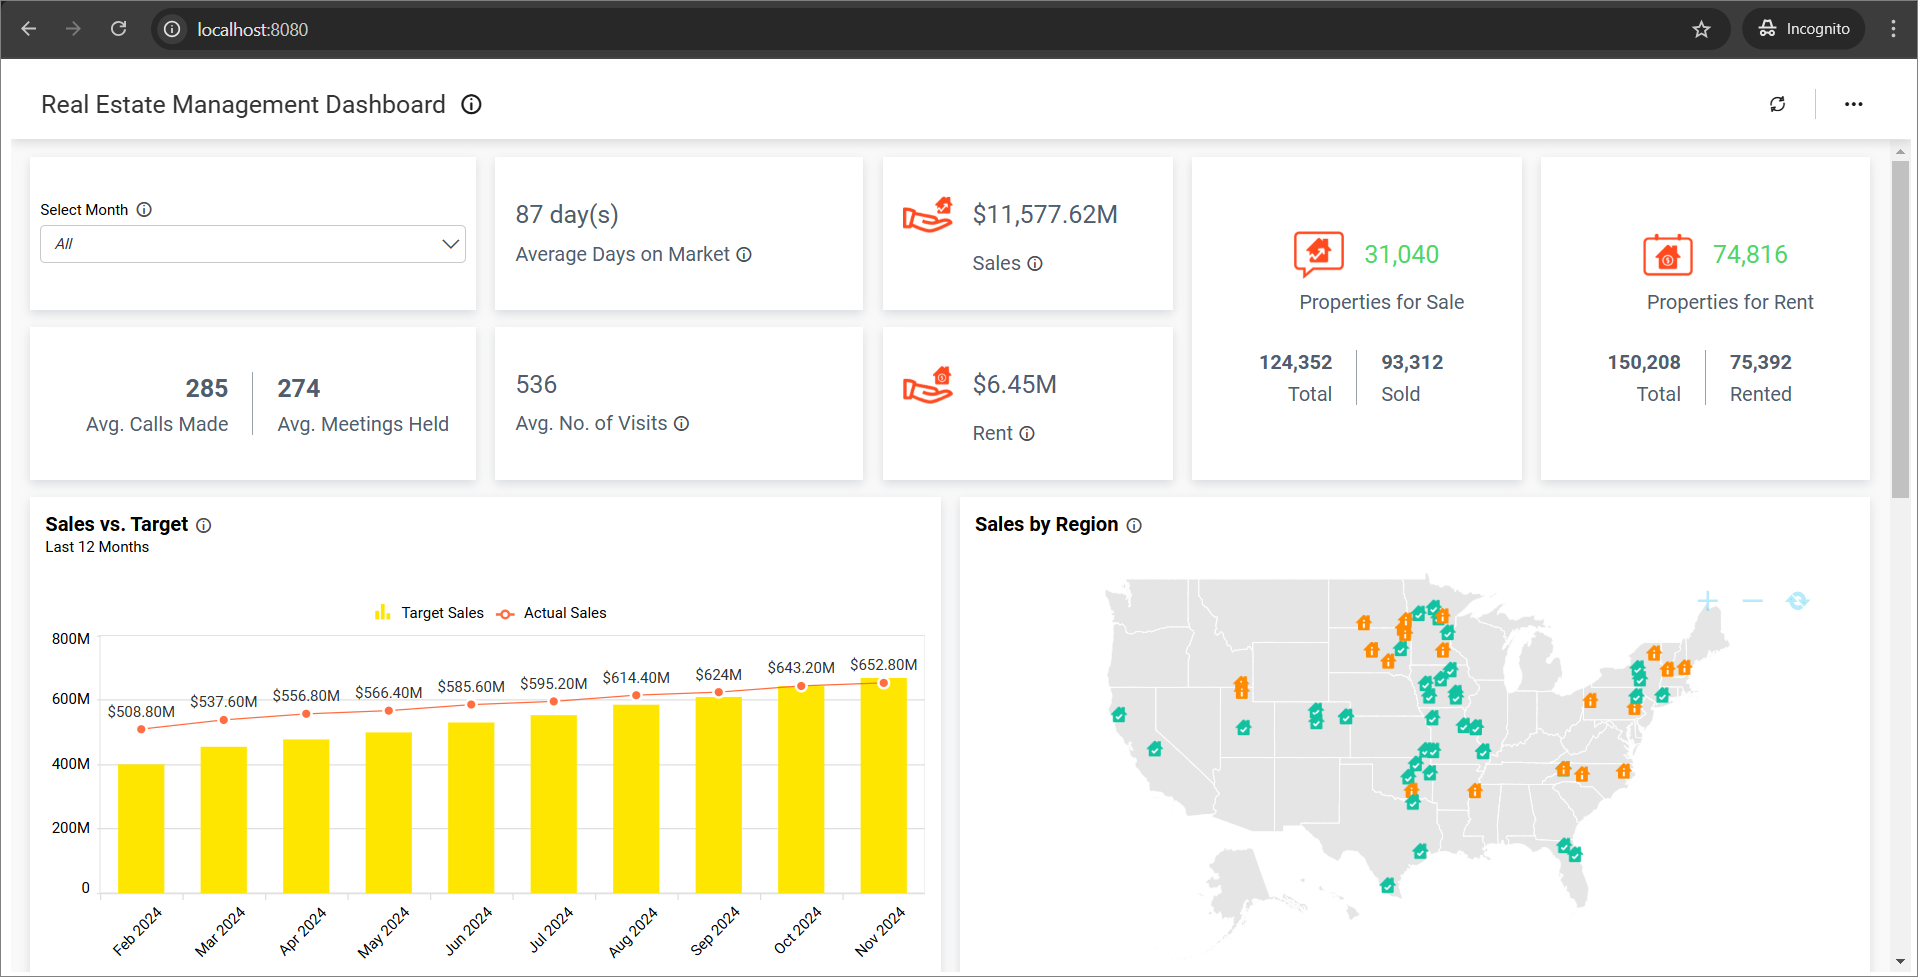
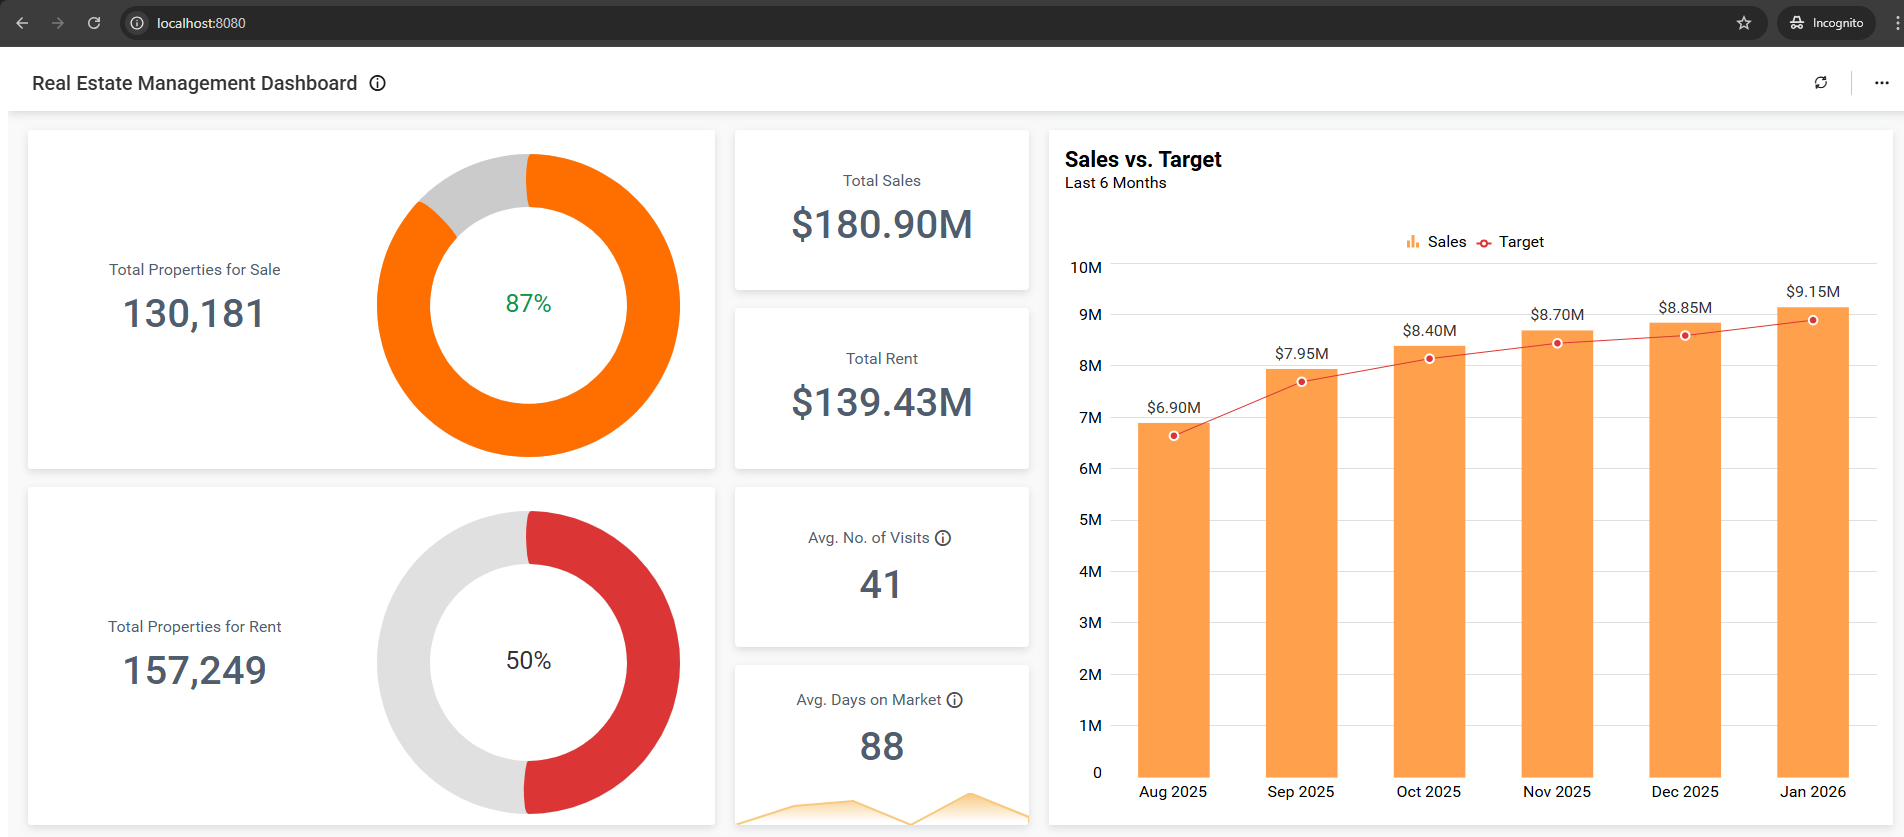
updated sample with embedtoken

diff --git a/index.html b/index.html
@@ -1,45 +1,53 @@
 <html>
-    <head>  
-        <script type="text/javascript" src="https://cdn.boldbi.com/embedded-sdk/latest/boldbi-embed.js"></script>
-    </head>
-    <body onload="embedSample();">
-        <div id="dashboard"></div>
-        <script>
 
-            //For Bold BI Enterprise edition, it should be like `site/site1`. For Bold BI Cloud, it should be empty string.
-            var siteIdentifier = configjson.SiteIdentifier;
-            
-            //Your Bold BI application environment. (If Cloud, you should use `cloud`, if Enterprise, you should use `enterprise`)
-            var environment = configjson.Environment;
+<head>
+    <script type="text/javascript" src="https://cdn.boldbi.com/embedded-sdk/latest/boldbi-embed.js"></script>
+</head>
 
-            //Item id of the dashboard in the Bold BI server`
-            var dashboardId = configjson.DashboardId;
+<body onload="embedSample();">
+    <div id="dashboard"></div>
+    <script>
 
-            var embedType = configjson.EmbedType;
+        //For Bold BI Enterprise edition, it should be like `site/site1`. For Bold BI Cloud, it should be empty string.
+        var siteIdentifier = configjson.SiteIdentifier;
 
-            //Bold BI Server URL (ex: http://localhost:5000/bi, http://demo.boldbi.com/bi)
-            var rootUrl = configjson.ServerUrl;
+        //Item id of the dashboard in the Bold BI server
+        var dashboardId = configjson.DashboardId;
 
-            //Url of the GetDetails(API) in this application
-            var authorizationUrl="http://localhost:8080/embeddetail/get";
+        //Bold BI Root URL (ex: http://localhost:5000/bi, http://demo.boldbi.com/bi)
+        var rootUrl = configjson.ServerUrl;
 
-            function embedSample() {
+        //Backend Url of the token generation in this application
+        var tokenGenerationUrl = "/TokenGeneration";
+
+        function embedSample() {
+            getEmbedToken().then(accessToken => {
                 var boldbiEmbedInstance = BoldBI.create({
                     serverUrl: rootUrl + "/" + siteIdentifier,
-                    dashboardId: dashboardId,                
+                    dashboardId: dashboardId,
                     embedContainerId: "dashboard",// This should be the container id where you want to embed the dashboard
-                    embedType: embedType,
-                    environment: environment,
-                    mode: BoldBI.Mode.View,
-                    height: "100%",
-                    width: "100%",
-                    authorizationServer: {
-                        url: authorizationUrl
-                    },
-                    expirationTime: "100000",
+                    embedToken: accessToken,
                 });
                 boldbiEmbedInstance.loadDashboard();
-            }
-        </script>
-    </body>
-    </html>
+            }).catch(error => {
+                console.error("Failed to get embed token:", error);
+            });
+        }
+
+        function getEmbedToken() {
+            return fetch(tokenGenerationUrl, {
+                method: 'POST',
+                headers: {
+                    'Content-Type': 'application/json'
+                },
+                body: JSON.stringify({})
+            })
+                .then(response => {
+                    if (!response.ok) throw new Error("Token fetch failed");
+                    return response.text();
+                });
+        }
+    </script>
+</body>
+
+</html>

diff --git a/tokengeneration.js b/tokengeneration.js
@@ -1,0 +1,81 @@
+var fs = require("fs");
+var http = require("http");
+var https = require("https");
+var url = require("url");
+var express = require('express');
+var cors = require('cors');
+var app = express();
+
+app.use(cors());
+// Parse JSON bodies (as sent by API clients)
+app.use(express.json());
+
+// Read JSON as UTF-8 and strip BOM if present to avoid parse errors
+var appconfig = JSON.parse(fs.readFileSync('embedConfig.json', 'utf8').replace(/^\uFEFF/, ''));
+
+var configjson ={"DashboardId": appconfig.DashboardId, "ServerUrl":appconfig.ServerUrl, "SiteIdentifier": appconfig.SiteIdentifier, "Environment": appconfig.Environment, "EmbedType": appconfig.EmbedType};
+
+app.post('/TokenGeneration', function (req, response) {
+  //object models
+  const embedDetails = {
+    email: appconfig.UserEmail,
+    serverurl: appconfig.ServerUrl,
+    siteidentifier: appconfig.SiteIdentifier,
+    embedsecret: appconfig.EmbedSecret,
+    dashboard: {  // Dashboard ID property is mandatory only when using BoldBI version 14.1.11.
+      id: appconfig.DashboardId
+    }
+  }
+
+  const parsedUrl = new URL(embedDetails.serverurl);
+  const postData = JSON.stringify(embedDetails);
+  const client = parsedUrl.protocol === 'https:' ? https : http;
+  const options = {
+    hostname: parsedUrl.hostname,
+    port: parsedUrl.port || (parsedUrl.protocol === 'https:' ? 443 : 80),
+    path: `${parsedUrl.pathname}/api/${embedDetails.siteidentifier}/embed/authorize`,
+    method: 'POST',
+    headers: {
+      'Content-Type': 'application/json',
+      'Content-Length': Buffer.byteLength(postData)
+    }
+  };
+
+  const requ = client.request(options, res => {
+    let result = '';
+    res.setEncoding('utf8');
+    res.on('data', chunk => result += chunk);
+    res.on('end', () => {
+      const resultparse = JSON.parse(result); // Parse the response
+      response.send(resultparse?.Data?.access_token);
+    });
+  });
+
+  requ.on('error', (e) => {
+    console.error("Error fetching embed token:", e.message);
+  });
+
+  requ.write(postData);
+  requ.end();
+})
+
+app.get("/",function (request, response) {
+
+  var pathname = url.parse(request.url).pathname;
+  console.log("Request for " + pathname + " received.");
+
+  response.writeHead(200);
+
+  if(pathname == "/") {
+      html = fs.readFileSync("index.html", "utf8");
+    html = html.replace("<script>","<script>var configjsonstring='"+JSON.stringify(configjson)+"';var configjson=JSON.parse(configjsonstring);");
+      response.write(html);
+  }
+  response.end();
+})
+
+var server = app.listen(8080, function () {
+  var host = server.address().address
+  var port = server.address().port
+  console.log("Example app listening at http://%s:%s", host, port)
+})

diff --git a/README.md b/README.md
@@ -45,7 +45,7 @@ This project was created using NodeJS 18.18. This application aims to demonstrat
   3. Finally, run the application using the following command
 
      ```bash
-     node embed.js
+     node tokengeneration.js
      ```
 
   4. After the application has started, it will display a URL in the `command line interface`, typically something like (e.g., <http://localhost:8080/>). Copy this URL and paste it into your default web browser.
@@ -67,7 +67,7 @@ This project was created using NodeJS 18.18. This application aims to demonstrat
 * Finally, run the application using the following command.
   
     ```bash
-    node embed.js
+    node tokengeneration.js
     ```
 
 * After the application has started, it will display a URL in the `command line interface`, typically something like (e.g., <http://localhost:8080/>). Copy this URL and paste it into your default web browser.
